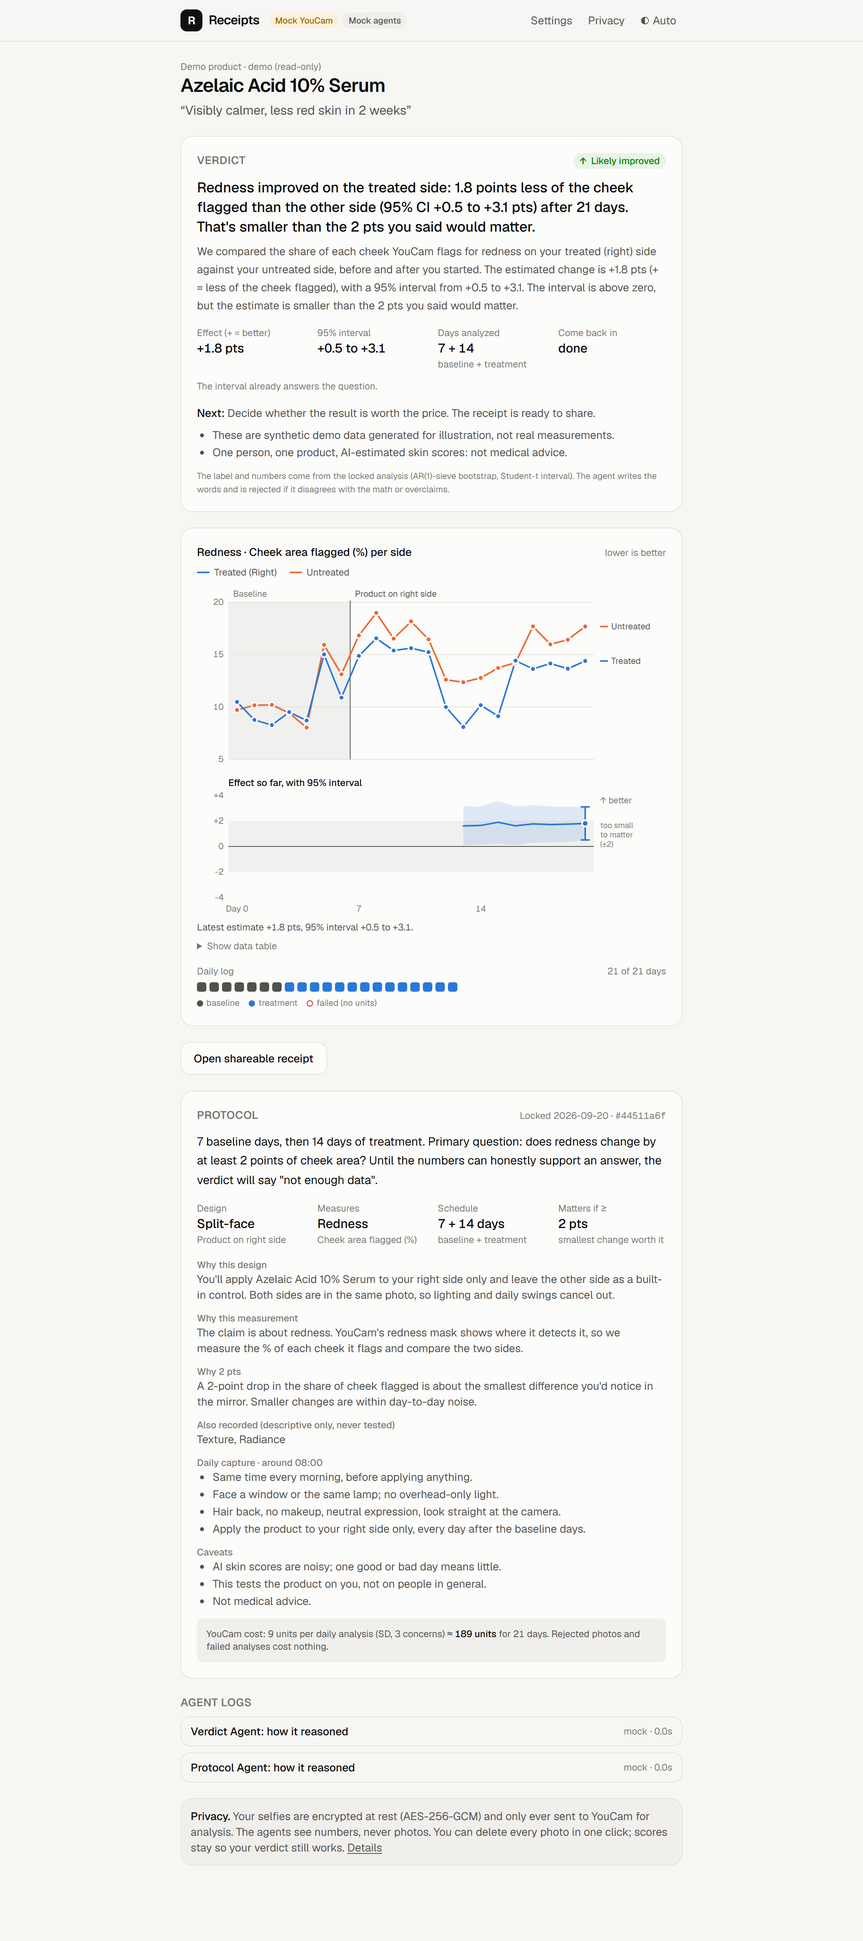
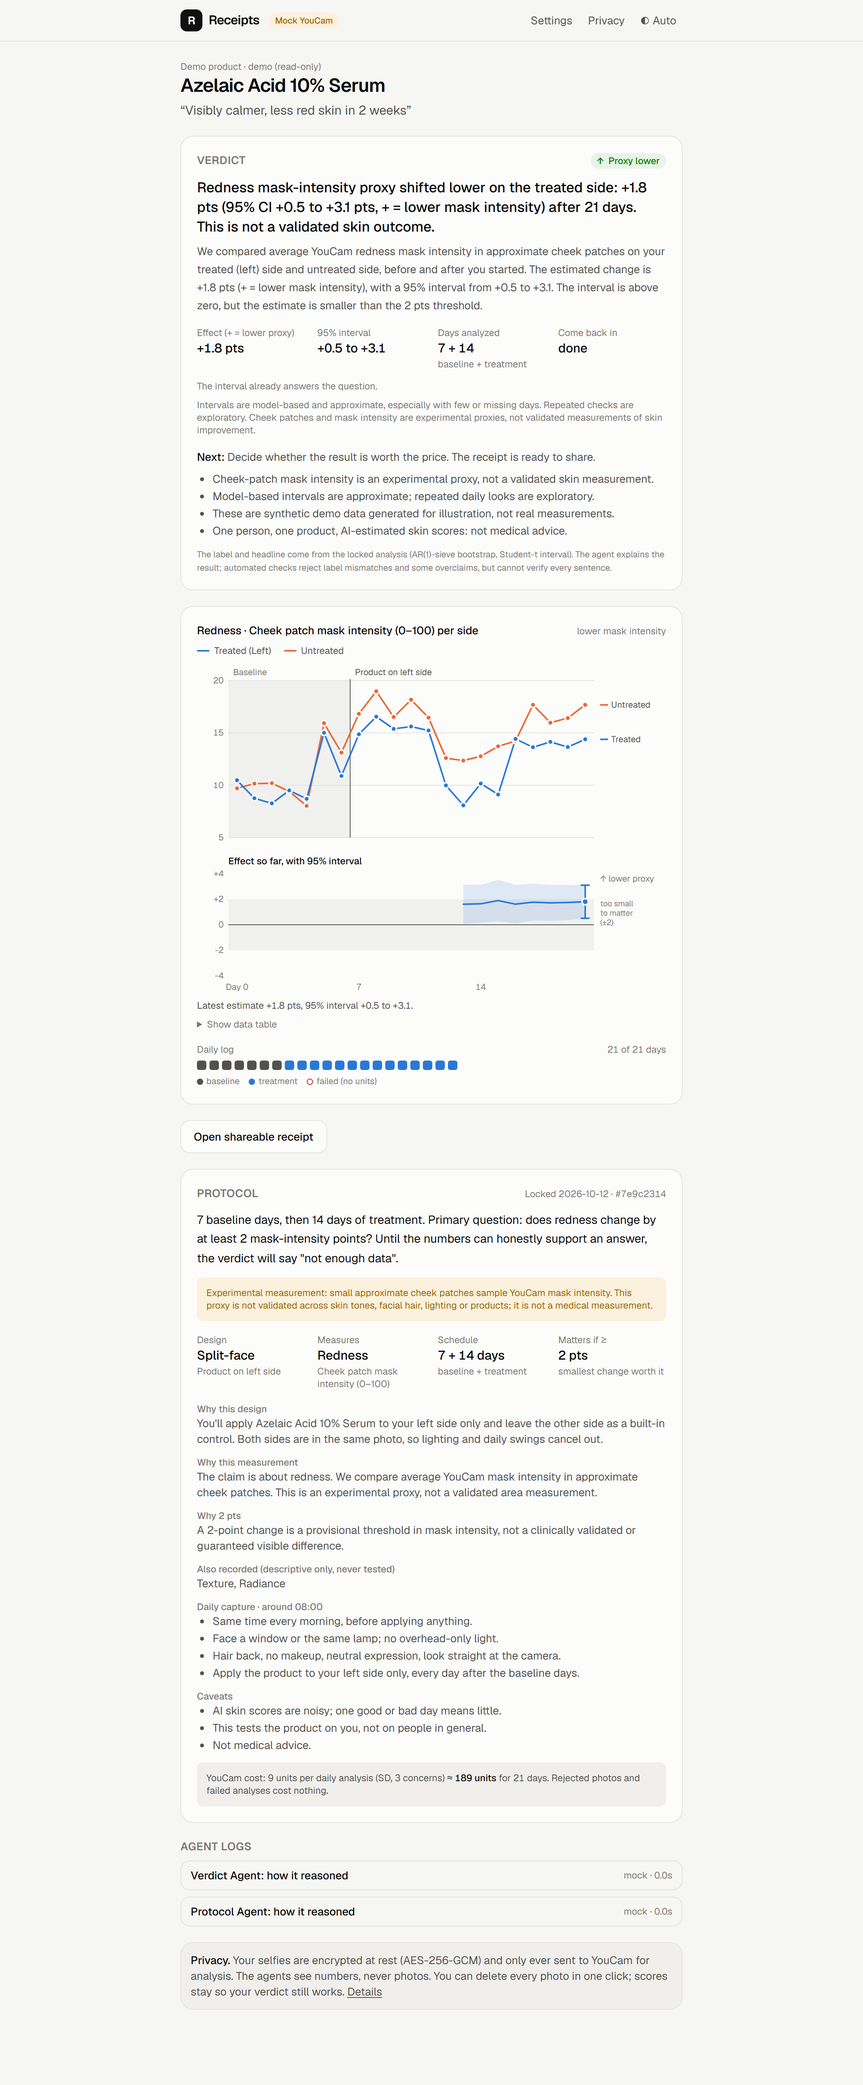
docs: prepare honest Devpost submission and refreshed demo assets

diff --git a/README.md b/README.md
@@ -4,7 +4,7 @@ To configure Claude locally, open **Settings → Set Claude API key** and paste 
 
 **Is your skincare actually working?** Receipts runs an honest *n=1 trial* of a product on your own face and gives you a statistically defensible answer instead of vibes.
 
-An agent designs the experiment (often product on **one side of your face only**, so the other side is a built-in control), [YouCam AI Skin Analysis](https://yce.perfectcorp.com/ai-api) measures you once a day, and a pre-registered analysis produces a verdict with its uncertainty. When there isn't enough data, it says so: *"No detectable change in hydration after 21 days; 14 more needed to rule out a small effect."*
+An agent designs the experiment (often product on **one side of your face only**, so the other side is a built-in control), [YouCam AI Skin Analysis](https://yce.perfectcorp.com/ai-api) measures you once a day, and a pre-registered analysis produces a verdict with its uncertainty. When there isn't enough data, it says so: *"Not enough data yet"* or an explicitly provisional estimate.
 
 Built for the YouCam API Skin AI & eCommerce VTO Hackathon. MIT licensed.
 
@@ -26,13 +26,13 @@ Built for the YouCam API Skin AI & eCommerce VTO Hackathon. MIT licensed.
    It also checks the YouCam unit cost and validates its own draft against the design rules. The treated side is **randomized server-side**, never chosen by the model.
 3. **You lock it.** The protocol is frozen and hashed before day 1 (pre-registration). The metric, threshold and analysis can't be tuned after seeing data.
 4. **Daily capture.** An in-browser face detector and consistency checks run *before any upload*: framing, resolution, pose, brightness, left/right lighting evenness, focus, drift from your usual brightness, and time of day. Bad photos never cost units. The photo is cropped to the face, encrypted at rest, and sent only to YouCam.
-5. **YouCam AI Skin Analysis** returns concern scores and detection masks. For split-face trials Receipts measures **each cheek** from the masks.
+5. **YouCam AI Skin Analysis** returns concern scores and detection masks. For split-face trials Receipts samples mask intensity in two approximate cheek patches. This is an experimental proxy, not a validated skin or product-effect measurement.
 6. **The Verdict Agent** reads the series through tools. It can run the locked analysis, but **it can't change it**. Its label must match the computed one and its wording can't overclaim, or its submission is rejected and it has to try again.
 7. **Receipt.** A one-screen summary with the chart and verdict, shareable by link and exportable as PNG.
 
 ## What YouCam APIs we use and why
 
-All calls go to `https://yce-api-01.makeupar.com` with `Authorization: Bearer <YOUCAM_API_KEY>`. Shapes are from the official OpenAPI bundle (`ai_skin_analysis.yaml`, V2.1) and were checked against the live API (free endpoints only).
+All calls go to `https://yce-api-01.makeupar.com` with `Authorization: Bearer <YOUCAM_API_KEY>`. Shapes are from the official OpenAPI bundle (`ai_skin_analysis.yaml`, V2.1). The file upload, task, polling, JSON scores and PNG masks were also exercised with one real, consented 9-unit analysis.
 
 | Endpoint | Why | Units |
 |---|---|---|
@@ -45,7 +45,7 @@ All calls go to `https://yce-api-01.makeupar.com` with `Authorization: Bearer <Y
 
 **Why AI Skin Analysis:** it turns a phone selfie into repeatable, per-concern numbers (redness, acne, pores, texture, hydration…), which is exactly what a daily time series needs.
 
-**Why masks matter:** YouCam's scores are whole-face. A split-face trial needs a per-side number, so Receipts downloads each concern's detection mask and measures **the share of each cheek region flagged**. The facial midline comes from the in-browser face detector. One API call per day is enough, instead of two calls on mirrored half-faces.
+**Why masks matter:** YouCam's scores are whole-face. A split-face trial needs a per-side number, so Receipts downloads each concern's detection mask and takes the mean mask intensity in small approximate elliptical upper-cheek patches (0–100). This is not necessarily a percentage of skin affected: mask opacity is not a clinical area measurement. The facial midline comes from the in-browser face detector. One API call per day is enough, instead of two calls on mirrored half-faces.
 
 **Unit budget:** a 21-day trial at SD with ≤4 concerns costs **21 × 9 = 189 units**. Retakes rejected on-device, and YouCam tasks that end in `error`, cost nothing. Every task goes through a ledger (`reserved → charged / not_charged`), and live tasks are refused past `YOUCAM_UNIT_BUDGET`. Task creation is never retried on 5xx, because a duplicate task would be billed twice.
 
@@ -61,7 +61,7 @@ flowchart LR
     C --> D[AES-256-GCM photo store]
     C --> E["YouCamClient<br/>retry · backoff · ledger · budget guard"]
     E -->|MOCK_YOUCAM=1| M[("Stateless mock transport<br/>same wire format, real PNG masks")]
-    E --> F["Mask split<br/>per-cheek coverage"]
+    E --> F["Mask split<br/>experimental cheek-patch intensity"]
     F --> G[("Prisma: Trial · Capture · Photo<br/>Measurement · AgentRun · Verdict · UnitLedger")]
     H[Protocol Agent] -->|"tools: metrics, cost, randomize side, check, submit"| G
     I[Verdict Agent] -->|"tools: protocol, quality, locked analysis, submit"| G
@@ -77,13 +77,13 @@ flowchart LR
 - **YouCam client** (`lib/youcam/`): typed, with injectable `fetch` / `sleep`. The mock sits at the HTTP layer, so mock mode runs the real upload, polling, retry, ledger and normalization code. Mock IDs carry their own state, so it survives serverless cold starts.
 - **Stats** (`lib/stats/`): pure functions, no I/O, seeded, so verdicts don't wobble on refresh.
 
-## The statistics (and why you can trust them)
+## Statistics and limitations
 
-- **Estimand.** Pre/post: mean(treatment days) − mean(baseline days). Split-face: the daily difference *treated − control* from the same photo, so shared lighting and day-to-day swings cancel, minus the same difference at baseline, which removes your face's natural asymmetry. Effects are oriented so **+ = better**. Pre-registered wash-in days are excluded from the effect.
+- **Estimand.** Pre/post: mean(treatment days) − mean(baseline days). Split-face: the daily difference *treated − control* from the same photo, which can reduce, but does not eliminate, shared lighting and day-to-day noise, minus the same difference at baseline, which removes your face's natural asymmetry. Effects are oriented so **+ = better**. Pre-registered wash-in days are excluded from the effect.
 - **Interval.** An AR(1)-sieve bootstrap (Bühlmann 1997) with a Student-t interval. Daily skin readings are autocorrelated, so treating days as independent would make intervals falsely narrow. The day-to-day carry-over φ is estimated from every logged day, with the Marriott–Pope small-sample bias correction applied per segment.
-- **We tested it.** `tests/unit/stats.test.ts` simulates hundreds of trials with a known effect and AR(1) noise and checks that 95% intervals really cover the truth (≥ 90%), plus a hard case (7 + 7 days, φ = 0.45, ≥ 88%). A moving-block bootstrap only reached about 79% on this test and was replaced (see the git history).
-- **Decision rule, fixed in advance.** 95% CI entirely above 0 → *improved*; entirely below → *worsened*; inside ±SESOI → *no meaningful change*; otherwise → *inconclusive*; below the minimum days → *not enough data*. One primary metric, one test. Secondary concerns are descriptive only.
-- **"N more days".** A precision projection: the treatment days needed for a 95% half-width of 0.7 × SESOI, which gives 80% power to detect the SESOI. If the fixed baseline alone is too noisy to ever get there, it says so instead of inventing a number. It also reports the days left until the claim's own timeframe.
+- **We tested it.** `tests/unit/stats.test.ts` simulates hundreds of trials with a known effect and AR(1) noise and checks coverage under selected simulations (≥ 90%, not a guarantee of 95% coverage on real faces), plus a hard case (7 + 7 days, φ = 0.45, ≥ 88%). A moving-block bootstrap only reached about 79% on this test and was replaced (see the git history).
+- **Decision rule, fixed in advance.** Interim daily estimates are exploratory; classifications are deferred until the locked treatment endpoint, and later days are excluded from that analysis. At the endpoint, 95% CI entirely above 0 → *improved*; entirely below → *worsened*; inside ±SESOI → *no meaningful change*; otherwise → *inconclusive*; below the minimum days → *not enough data*. One primary metric, one test. Secondary concerns are descriptive only.
+- **"N more days".** Before the pre-registered endpoint, this is time remaining in the planned schedule, not a promise of statistical power. After the endpoint, more days are not automatically folded into the locked analysis; an inconclusive result stays inconclusive.
 - **No retake shopping.** Only the first successful photo of each day counts.
 
 ## Setup
@@ -93,7 +93,7 @@ Requires Node 22+ (tested on 24).
 ```bash
 npm install
 npm run setup        # writes .env (imports keys from ../youcamkey.env if present), creates the SQLite DB
-npm run seed:demo    # two finished 21-day demo trials (synthetic data, clearly labeled)
+npm run seed:demo    # two synthetic 21-day histories: one finished, one interim
 npm run dev          # http://localhost:3000  (/demo jumps to the split-face demo)
 ```
 
@@ -126,6 +126,8 @@ The Settings page shows what's configured (masked), the unit ledger, and a free 
 
 ## Deploying (Vercel + Neon Postgres)
 
+**Prototype security:** The anonymous browser cookie is not authentication. A public deployment is suitable for synthetic demo data, not sensitive personal trials, until authenticated accounts, authorization, rate limits and production security review are added. The local key setup dialog is disabled server-side on deployed instances; configure deployment secrets through Vercel instead.
+
 1. Create a Neon database through Vercel's Neon integration. It sets `DATABASE_URL` (pooled) and `DATABASE_URL_UNPOOLED`.
 2. Set the env vars above in Vercel. Generate `PHOTO_ENCRYPTION_KEY` with `node -e "console.log(require('crypto').randomBytes(32).toString('base64'))"`.
 3. Vercel runs `npm run vercel-build`, which swaps the Prisma provider to Postgres (`scripts/use-postgres.mjs`), pushes the schema, and builds.
@@ -143,12 +145,14 @@ The schema is provider-neutral (no enums, JSON and Bytes work on both), so SQLit
 
 ## Privacy
 
-- Selfies are encrypted at rest with AES-256-GCM, each bound to its capture row. They are sent **only to YouCam**. The agents receive numbers, never photos.
+- Selfies are encrypted at rest with AES-256-GCM, each bound to its capture row. They are sent **only to YouCam**. The agents receive product and claim text, measurements, and statistics, never photos. Deleting photos also clears saved mask URLs; it cannot erase files already sent to YouCam.
 - Face detection runs on-device. The MediaPipe runtime and model are served from this app, not a CDN. Fonts are self-hosted at build time.
 - One click deletes every photo for a trial (scores remain). "Delete trial" removes everything. No accounts: an anonymous per-browser cookie scopes your trials. Receipts are shared by unguessable link and contain no photos.
 - Not medical advice.
 
 ## Developing with YouCam's MCP server and skill
+
+The optional `npm run inspect:capture -- --out <private-directory>` developer tool exports a decrypted copy of a photograph and its derived masks for manual inspection. These exported copies are outside the app's photo-deletion feature and must be managed separately; do not include them in a submission repository.
 
 YouCam ships a remote MCP server (`https://mcp-api-01.makeupar.com/mcp/beauty`, Bearer auth, 47 tools including `AI-Skin-Analysis` and `Get-Feature-Cost`) and an official [`skin-analysis-expert`](https://github.com/YouCam-API/skills) agent skill. The workspace this repo was built in has both configured (`.mcp.json` and `.claude/skills/`, outside the repo because they hold the key). To add them yourself in Claude Code:
 
@@ -159,7 +163,7 @@ claude mcp add --transport http youcam-beauty https://mcp-api-01.makeupar.com/mc
 ## Honest limitations
 
 - One person, AI-estimated scores. Receipts tests the product **on you**, not in general.
-- The mask format of live responses (alpha vs opaque) is handled both ways and unit-tested, but the per-cheek region geometry should be sanity-checked against a few real masks.
+- The mask format was verified on one live capture, but the cheek patches and mask-intensity metric remain experimental and have not been validated across faces, skin tones, facial hair, lighting, products, or claims. Older trials retain their original wider sampling regions and should not be compared with new trials.
 - Pre/post designs can't separate a treatment effect from a slow drift (season, routine changes). That's why split-face is preferred whenever possible, and why the verdict flags lighting drift between phases.
 
 ## License

diff --git a/DEMO_SCRIPT.md b/DEMO_SCRIPT.md
@@ -4,7 +4,7 @@
 
 ## Before recording
 
-- [ ] `npm run seed:demo` (two finished 21-day trials). Add `-- --live-agents` if `ANTHROPIC_API_KEY` is set, so the reasoning logs show real Claude turns.
+- [ ] `npm run seed:demo` (two synthetic 21-day histories: one finished, one interim). Add `-- --live-agents` if `ANTHROPIC_API_KEY` is set, so the reasoning logs show real Claude turns.
 - [ ] `ANTHROPIC_API_KEY` set so the live trial you create on camera uses the real agents (the "Mock agents" badge disappears).
 - [ ] Decide on YouCam: keep `MOCK_YOUCAM=1` (0 units, the "Mock" badge is visible), or set `MOCK_YOUCAM=0` for **one** real capture on camera (9 units).
 - [ ] Browser at a phone-sized width (390 px) for the capture scene and desktop width for the dashboard. Close the Next.js dev badge (or record a `next build && next start` run).
@@ -16,13 +16,13 @@
 |---|---|---|
 | 0:00–0:12 | Home page | "Skincare is sold on claims like *'reduces redness in 4 weeks'*. Most of us judge them by vibes in the mirror. Receipts runs an actual experiment, on you." |
 | 0:12–0:40 | **New trial** → fill *Azelaic Acid 10% Serum*, claim chip "Reduces redness in 4 weeks", Leave-on, half-face **Yes** → *Design my trial* | "The Protocol Agent designs the trial. Open its reasoning: it looked up what YouCam can measure, estimated the YouCam cost (9 units a day), and since this is a topical serum it chose **split-face**: product on one side, the other side is the control. The side is randomized by the server, not picked by the model." *(Expand "how it reasoned"; point at `assign_treated_side` and `estimate_trial_cost`.)* |
-| 0:40–0:52 | Protocol card → **Lock protocol & start** | "It also sets the smallest change worth paying for, in points of cheek area. Locking pre-registers the plan: it's hashed before day one, so the goalposts can't move later." |
-| 0:52–1:20 | **Take today's photo** (phone width). Face outline; checks turn green. Switch the lamp off → *Lighting* and *Even light* fail, button disabled. Lamp on → *Take photo* → *Analyze (9 units)* | "Before a single YouCam unit is spent, the browser checks framing, pose, lighting, and whether both cheeks are evenly lit, which matters when you compare sides. Bad photo? Rejected on the device for free. Good photo: cropped to the face, encrypted, sent only to YouCam AI Skin Analysis." |
+| 0:40–0:52 | Protocol card → **Lock protocol & start** | "It also sets the smallest change worth paying for, in mask-intensity points. Locking pre-registers the plan: it's hashed before day one, so the goalposts can't move later." |
+| 0:52–1:20 | **Take today's photo** (phone width). Face outline; checks turn green. Switch the lamp off → *Lighting* and *Even light* fail, button disabled. Lamp on → *Take photo* → *Analyze* | "Before spending YouCam units, the browser checks framing, pose, and lighting. In this recording we're using mock analysis, which costs zero units. A real SD analysis sends the cropped photo to YouCam and costs 9 units on success." |
 | 1:20–1:30 | Result: "Day 0 logged" → back to trial: verdict **Not enough data** | "One day in, and the verdict refuses to guess. That's a feature." |
-| 1:30–2:00 | `/demo` → **Azelaic split-face demo**: hover the chart | "Here's a finished 21-day trial. Blue is the treated cheek, orange the untreated one. They swing together with daily lighting, and the pairing cancels that out. Below is the effect estimate as it built up, with its 95% interval tightening against the *too small to matter* zone. Verdict: **likely improved, but smaller than the 2 points you said would matter.** Honest, not hype." |
-| 2:00–2:20 | Home → **Collagen** pre/post demo | "An oral supplement can't be split-face, so the agent chose a baseline week, then treatment. After 21 days: **no detectable change in hydration; 14 more days needed to rule out a small effect.**" Open the Verdict Agent log: "The agent writes the words, but the label comes from the locked analysis. If it disagrees with the math, or says 'clinically proven', its answer is rejected." |
+| 1:30–2:00 | `/demo` → **Azelaic split-face demo**: hover the chart | "Here's a synthetic 21-day example. Blue is the treated cheek patch; orange is the untreated one. Pairing may reduce shared lighting noise. Below is the effect estimate with its approximate interval. This is an experimental mask-intensity proxy, not a validated measure of skin improvement." |
+| 2:00–2:20 | Home → **Collagen** pre/post demo | "An oral supplement can't be split-face, so the agent chose a baseline week, then treatment. After 21 days: **an interim estimate, with more time remaining in the planned trial.**" Open the Verdict Agent log: "The agent writes the words, but the label comes from the locked analysis. If it disagrees with the math, or says 'clinically proven', its answer is rejected." |
 | 2:20–2:35 | **Open shareable receipt** → *Download PNG*; back → *Delete all photos* | "Every trial ends in a receipt you can share, with no photos in it. And your selfies are one click from gone." |
-| 2:35–2:50 | README sections: YouCam APIs table and the stats calibration test | "Under the hood: YouCam's file, task and polling APIs with a unit ledger and a budget guard. One analysis a day, with per-cheek measurements from YouCam's detection masks. And bootstrap intervals we actually tested for calibration. Receipts: proof, not vibes." |
+| 2:35–2:50 | README sections: YouCam APIs table and the stats calibration test | "Under the hood: YouCam's file, task and polling APIs with a unit ledger and a budget guard. One analysis a day, with experimental cheek-patch mask intensity from YouCam. Our intervals are approximate; simulation tests explore their limitations. Receipts: numbers, with context." |
 
 ## Fallbacks
 

diff --git a/SUBMISSION.md b/SUBMISSION.md
@@ -1,0 +1,34 @@
+# Receipts — Devpost submission kit
+
+**Deadline:** November 2, 2026, 11:45 a.m. Eastern Time. Confirm the current deadline and eligibility on the [official rules](https://youcam-api-skin-ai-ecommerce.devpost.com/rules).
+
+## Project description
+
+**Tagline:** Your skincare claims deserve receipts.
+
+Most skincare routines rely on memory: a product promises visible results, but lighting, time, and other changes make it hard to tell whether anything actually happened. Receipts turns that question into a small, pre-registered experiment for one person.
+
+Tell Receipts what product you are trying and what it claims. A Protocol Agent uses tools to choose a suitable design, match the claim to a YouCam skin concern, estimate API cost, and check its own plan. For a product that can stay on one side of the face, the app can propose a randomized split-face design. Otherwise it proposes baseline and treatment periods. Before any measurements, the user locks a protocol and its hash.
+
+Each check-in uses in-browser face detection and quality checks for framing, lighting, and consistency before upload. YouCam AI Skin Analysis asynchronously returns scores and detection masks. The Verdict Agent uses a locked analysis tool and explains the estimated change, approximate uncertainty, and missing data. It cannot choose a different primary measure or override the calculated label. A shareable receipt shows the protocol, chart, and verdict without including the selfie.
+
+The demo includes two clearly labeled synthetic 21-day histories, so judges can inspect a finished split-face example and an interim before/after example without spending API units. We also exercised the real file upload, asynchronous skin-analysis task, polling, scores, and PNG masks with one consented live capture.
+
+**Honest limitations:** This is an early research prototype, not medical advice. Split-face measurements are average YouCam mask intensity in approximate geometric cheek patches, not clinically validated skin-area measurements. Performance across faces, skin tones, facial hair, lighting, products, and repeated days is unvalidated. Model-based intervals are approximate; repeated interim looks are exploratory. The simple anonymous cookie is not production authentication.
+
+## Judge testing instructions
+
+1. Follow the setup instructions in [README.md](README.md): Node 22+, `npm install`, `npm run setup`, then `npm run seed:demo` and `npm run dev`.
+2. Leave `MOCK_YOUCAM=1` for a zero-unit test. Without an Anthropic key, deterministic mock agents use the same tool interfaces and show their logs.
+3. Open `/demo` for the synthetic split-face trial; open the collagen trial on the home page for a before/after example. Expand the agent logs and use the receipt's PNG export.
+4. To try the full capture flow, create and lock a new trial and upload a front-facing image. The browser runs checks before analysis. Mock mode does not call YouCam.
+5. With your own YouCam key and `MOCK_YOUCAM=0`, a successful SD analysis with up to four concerns currently costs 9 units. Confirm pricing in the YouCam console first. Live Anthropic calls require an Anthropic key and may incur separate charges.
+
+## Before submitting
+
+- [ ] Register and complete the Devpost entry form; choose the Skin AI topic.
+- [ ] Publish a source repository with the MIT license, or share a private repository with the address specified in the official rules. Verify no `.env`, API keys, personal photos, or signed URLs are included.
+- [ ] Provide a working project URL, functioning demo, or test build and clear judge instructions; keep it available through the judging period. A production deployment has **not** been created by this project kit.
+- [ ] Record the 1–3 minute walkthrough using [DEMO_SCRIPT.md](DEMO_SCRIPT.md); upload publicly to YouTube or Vimeo and paste the link into Devpost. Explain the YouCam API and show the working application on the intended device.
+- [ ] Paste the description and testing instructions above, update them to match the actual demo, and verify all claims and links. Do not describe synthetic data as a real clinical outcome.
+- [ ] Review permissions and rights for any visible faces, names, music, and third-party marks before publishing. Submit the entry yourself before the deadline.
